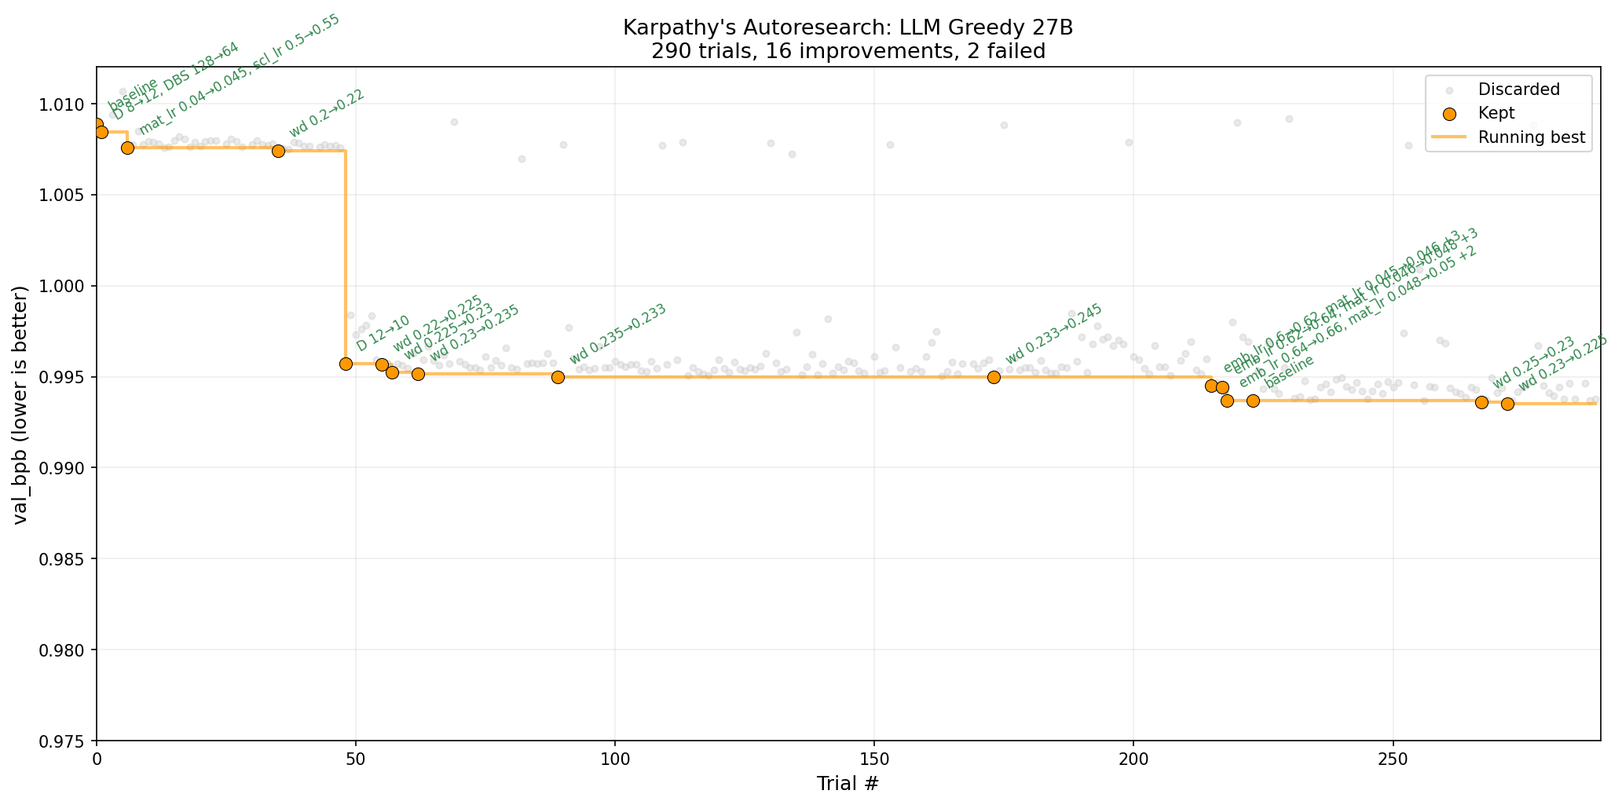
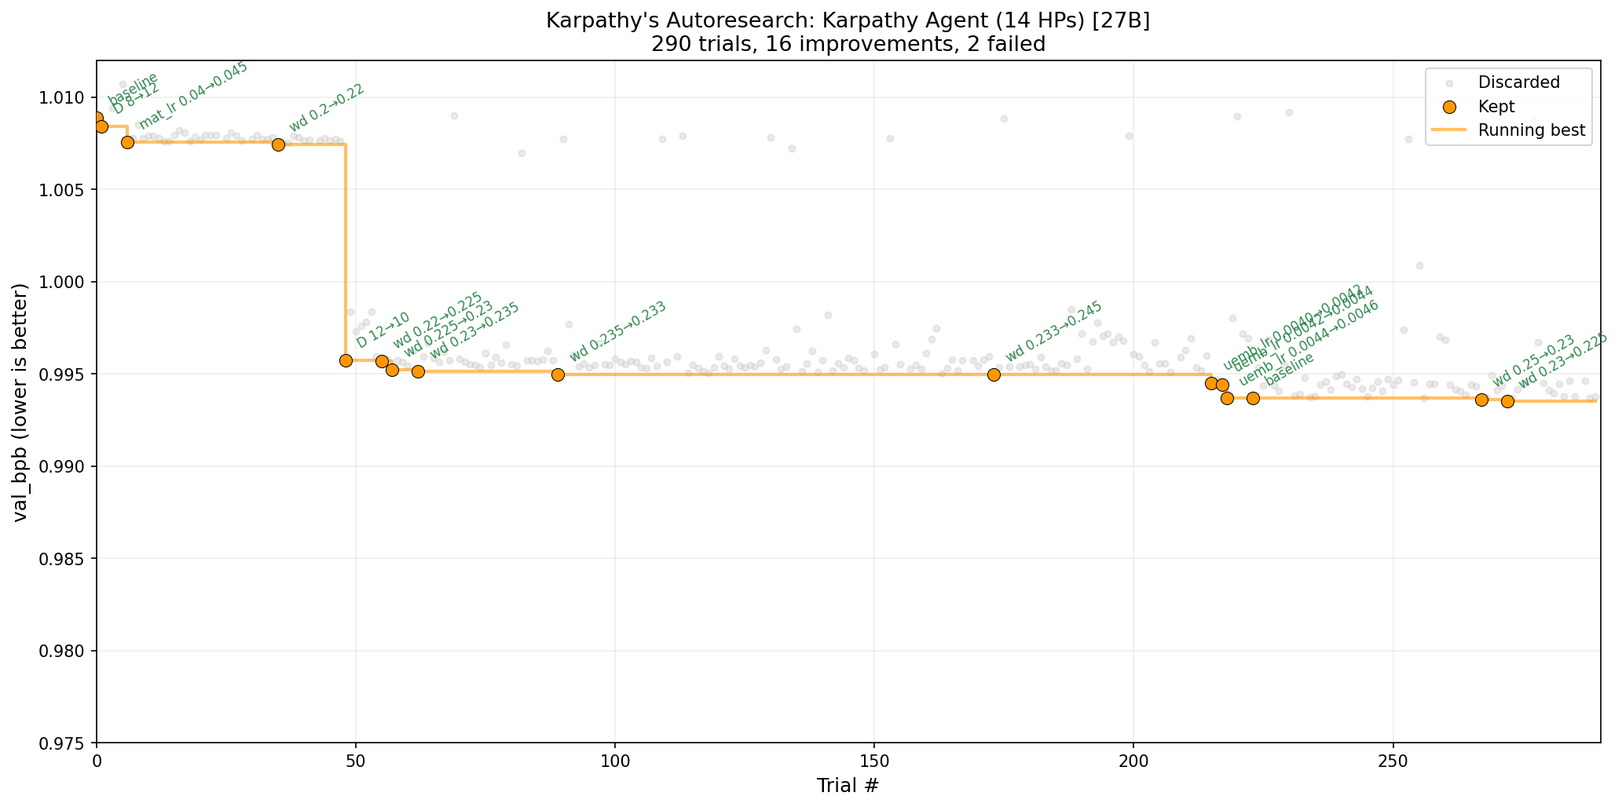
Benchmark cleanup: fix SMAC failure handling, rename methods, update README motivation
- SMAC: mark OOM trials as StatusType.MEMORYOUT (was SUCCESS), so GP
  surrogate can distinguish failures from real results
- Rename methods for clarity: Karpathy Agent (Code) vs (14 HPs),
  LLAMBO (Optuna) vs (Paper), Centaur [27B]
- README: reframe motivation as classical-vs-LLM comparison, add
  fairness summary, document SMAC bug
- Regenerate all convergence plots with new labels (SMAC excluded
  pending rerun with fix)
- _config_diff: show single most significant HP change instead of
  truncated list

diff --git a/scripts/plot_convergence.py b/scripts/plot_convergence.py
@@ -1,4 +1,4 @@
-"""Plot convergence curves for Exp2 benchmark: TPE vs LLAMBO vs LLM Greedy."""
+"""Plot convergence curves for Exp2 benchmark: classical vs LLM-based vs hybrid HPO."""
 
 import json
 from pathlib import Path
@@ -93,10 +93,10 @@ def plot_convergence_multi(
 def plot_exp2_0_8b(results_dir: Path, output_path: Path):
     """Exp2: 0.8B model — all backends."""
     backends = {
-        "optuna": {"label": "TPE (Optuna)", "color": "#2196F3"},
-        "llambo": {"label": "LLAMBO (Optuna) 0.8B", "color": "#9C27B0"},
-        "llambo_original": {"label": "LLAMBO (Original) 0.8B", "color": "#E91E63"},
-        "llm_greedy": {"label": "LLM Greedy 0.8B", "color": "#FF9800"},
+        "optuna": {"label": "TPE", "color": "#2196F3"},
+        "llambo": {"label": "LLAMBO (Optuna) [0.8B]", "color": "#9C27B0"},
+        "llambo_original": {"label": "LLAMBO (Paper) [0.8B]", "color": "#E91E63"},
+        "llm_greedy": {"label": "Karpathy Agent (14 HPs) [0.8B]", "color": "#FF9800"},
     }
     plot_convergence_multi(
         results_dir / "exp2_benchmark",
@@ -109,12 +109,12 @@ def plot_exp2_0_8b(results_dir: Path, output_path: Path):
 def plot_exp2_27b(results_dir: Path, output_path: Path):
     """Exp2: 27B — all backends."""
     backends = {
-        "optuna": {"label": "TPE (Optuna)", "color": "#2196F3"},
+        "optuna": {"label": "TPE", "color": "#2196F3"},
         "cma_es": {"label": "CMA-ES", "color": "#00796B"},
-        "centaur_Qwen3_5_27B": {"label": "Centaur 27B", "color": "#D32F2F"},
-        "llm_greedy_Qwen3_5_27B_nothink": {"label": "LLM Greedy 27B", "color": "#FF9800"},
-        "llambo_Qwen3_5_27B_nothink": {"label": "LLAMBO (Optuna) 27B", "color": "#9C27B0"},
-        "llambo_original_Qwen3_5_27B_nothink": {"label": "LLAMBO (Original) 27B", "color": "#E91E63"},
+        "centaur_Qwen3_5_27B": {"label": "Centaur [27B]", "color": "#D32F2F"},
+        "llm_greedy_Qwen3_5_27B_nothink": {"label": "Karpathy Agent (14 HPs) [27B]", "color": "#FF9800"},
+        "llambo_Qwen3_5_27B_nothink": {"label": "LLAMBO (Optuna) [27B]", "color": "#9C27B0"},
+        "llambo_original_Qwen3_5_27B_nothink": {"label": "LLAMBO (Paper) [27B]", "color": "#E91E63"},
         "random": {"label": "Random", "color": "#607D8B"},
     }
     plot_convergence_multi(
@@ -128,15 +128,15 @@ def plot_exp2_27b(results_dir: Path, output_path: Path):
 def plot_exp2_all(results_dir: Path, output_path: Path):
     """All backends on one plot."""
     backends = {
-        "optuna": {"label": "TPE (Optuna)", "color": "#2196F3", "linestyle": "-"},
+        "optuna": {"label": "TPE", "color": "#2196F3", "linestyle": "-"},
         "cma_es": {"label": "CMA-ES", "color": "#00796B", "linestyle": "-"},
-        "centaur_Qwen3_5_27B": {"label": "Centaur 27B", "color": "#D32F2F", "linestyle": "-"},
+        "centaur_Qwen3_5_27B": {"label": "Centaur [27B]", "color": "#D32F2F", "linestyle": "-"},
         "random": {"label": "Random", "color": "#607D8B", "linestyle": "-"},
         "smac": {"label": "SMAC", "color": "#795548", "linestyle": "-"},
-        "llm_greedy_Qwen3_5_27B_nothink": {"label": "LLM Greedy 27B", "color": "#FF9800", "linestyle": "-"},
-        "llambo_Qwen3_5_27B_nothink": {"label": "LLAMBO (Optuna) 27B", "color": "#9C27B0", "linestyle": "-"},
-        "llambo_original_Qwen3_5_27B_nothink": {"label": "LLAMBO (Orig) 27B", "color": "#E91E63", "linestyle": "-"},
-        "karpathy_agent_Qwen3_5_27B": {"label": "Karpathy Agent 27B", "color": "#4CAF50", "linestyle": "-"},
+        "llm_greedy_Qwen3_5_27B_nothink": {"label": "Karpathy Agent (14 HPs) [27B]", "color": "#FF9800", "linestyle": "-"},
+        "llambo_Qwen3_5_27B_nothink": {"label": "LLAMBO (Optuna) [27B]", "color": "#9C27B0", "linestyle": "-"},
+        "llambo_original_Qwen3_5_27B_nothink": {"label": "LLAMBO (Paper) [27B]", "color": "#E91E63", "linestyle": "-"},
+        "karpathy_agent_Qwen3_5_27B": {"label": "Karpathy Agent (Code) [27B]", "color": "#4CAF50", "linestyle": "-"},
     }
     plot_convergence_multi(
         results_dir / "exp2_benchmark",
@@ -149,11 +149,11 @@ def plot_exp2_all(results_dir: Path, output_path: Path):
 def plot_exp2_model_size(results_dir: Path, output_path: Path):
     """Compare 0.8B vs 27B for each LLM backend."""
     backends = {
-        "optuna": {"label": "TPE (Optuna)", "color": "#2196F3", "linestyle": "-"},
-        "llm_greedy_Qwen3_5_27B_nothink": {"label": "LLM Greedy 27B", "color": "#FF9800", "linestyle": "-"},
-        "llambo_original_Qwen3_5_27B_nothink": {"label": "LLAMBO (Orig) 27B", "color": "#E91E63", "linestyle": "-"},
-        "karpathy_agent_Qwen3_5_0_8B": {"label": "Karpathy Agent 0.8B", "color": "#4CAF50", "linestyle": "--"},
-        "karpathy_agent_Qwen3_5_27B": {"label": "Karpathy Agent 27B", "color": "#4CAF50", "linestyle": "-"},
+        "optuna": {"label": "TPE", "color": "#2196F3", "linestyle": "-"},
+        "llm_greedy_Qwen3_5_27B_nothink": {"label": "Karpathy Agent (14 HPs) [27B]", "color": "#FF9800", "linestyle": "-"},
+        "llambo_original_Qwen3_5_27B_nothink": {"label": "LLAMBO (Paper) [27B]", "color": "#E91E63", "linestyle": "-"},
+        "karpathy_agent_Qwen3_5_0_8B": {"label": "Karpathy Agent (Code) [0.8B]", "color": "#4CAF50", "linestyle": "--"},
+        "karpathy_agent_Qwen3_5_27B": {"label": "Karpathy Agent (Code) [27B]", "color": "#4CAF50", "linestyle": "-"},
     }
     plot_convergence_multi(
         results_dir / "exp2_benchmark",
@@ -194,21 +194,31 @@ def _format_val(v):
     return str(v)
 
 
-def _config_diff(prev: dict, curr: dict, max_diffs: int = 2) -> str:
-    """Karpathy-style HP change description: 'warmdown 0.5→0.7, TBS 524K→262K'."""
-    diffs = []
+def _config_diff(prev: dict, curr: dict) -> str:
+    """Show the single most significant HP change (largest relative delta)."""
+    best_diff = None
+    best_rel = -1.0
     for hp in curr:
         if hp not in prev or prev[hp] != curr[hp]:
             short = HP_SHORT.get(hp, hp)
             if hp in prev:
-                diffs.append(f"{short} {_format_val(prev[hp])}→{_format_val(curr[hp])}")
+                diff_str = f"{short} {_format_val(prev[hp])}→{_format_val(curr[hp])}"
+                # Compute relative change for ranking
+                try:
+                    old_v, new_v = float(prev[hp]), float(curr[hp])
+                    denom = max(abs(old_v), 1e-12)
+                    rel = abs(new_v - old_v) / denom
+                except (ValueError, TypeError):
+                    rel = float("inf")  # categorical changes rank highest
             else:
-                diffs.append(f"{short}={_format_val(curr[hp])}")
-    if not diffs:
+                diff_str = f"{short}={_format_val(curr[hp])}"
+                rel = float("inf")
+            if rel > best_rel:
+                best_rel = rel
+                best_diff = diff_str
+    if best_diff is None:
         return "baseline"
-    if len(diffs) > max_diffs:
-        return ", ".join(diffs[:max_diffs]) + f" +{len(diffs) - max_diffs}"
-    return ", ".join(diffs)
+    return best_diff
 
 
 def plot_progress_single(
@@ -305,13 +315,13 @@ def plot_progress(results_dir: Path, assets_dir: Path):
     bench_dir = results_dir / "exp2_benchmark"
 
     backends_to_plot = [
-        ("optuna", "TPE (Optuna)", "#2196F3"),
-        ("llm_greedy", "LLM Greedy 0.8B", "#FF9800"),
-        ("llm_greedy_Qwen3_5_27B_nothink", "LLM Greedy 27B", "#FF9800"),
-        ("llambo_original", "LLAMBO (Original) 0.8B", "#E91E63"),
-        ("llambo_original_Qwen3_5_27B_nothink", "LLAMBO (Original) 27B", "#E91E63"),
-        ("llambo", "LLAMBO (Optuna) 0.8B", "#9C27B0"),
-        ("llambo_Qwen3_5_27B_nothink", "LLAMBO (Optuna) 27B", "#9C27B0"),
+        ("optuna", "TPE", "#2196F3"),
+        ("llm_greedy", "Karpathy Agent (14 HPs) [0.8B]", "#FF9800"),
+        ("llm_greedy_Qwen3_5_27B_nothink", "Karpathy Agent (14 HPs) [27B]", "#FF9800"),
+        ("llambo_original", "LLAMBO (Paper) [0.8B]", "#E91E63"),
+        ("llambo_original_Qwen3_5_27B_nothink", "LLAMBO (Paper) [27B]", "#E91E63"),
+        ("llambo", "LLAMBO (Optuna) [0.8B]", "#9C27B0"),
+        ("llambo_Qwen3_5_27B_nothink", "LLAMBO (Optuna) [27B]", "#9C27B0"),
     ]
 
     for backend_name, display_name, color in backends_to_plot:
@@ -409,11 +419,11 @@ def plot_progress_combined(results_dir: Path, output_path: Path):
         all_descriptions = json.loads(desc_path.read_text())
 
     backends = [
-        ("optuna", "TPE (Optuna)", "#2196F3"),
+        ("optuna", "TPE", "#2196F3"),
         ("cma_es", "CMA-ES", "#00796B"),
-        ("centaur_Qwen3_5_27B", "Centaur 27B", "#D32F2F"),
-        ("llambo_original_Qwen3_5_27B_nothink", "LLAMBO (Original) 27B", "#E91E63"),
-        ("llm_greedy_Qwen3_5_27B_nothink", "LLM Greedy 27B", "#FF9800"),
+        ("centaur_Qwen3_5_27B", "Centaur [27B]", "#D32F2F"),
+        ("llambo_original_Qwen3_5_27B_nothink", "LLAMBO (Paper) [27B]", "#E91E63"),
+        ("llm_greedy_Qwen3_5_27B_nothink", "Karpathy Agent (14 HPs) [27B]", "#FF9800"),
         ("random", "Random", "#607D8B"),
     ]
 

diff --git a/autoresearch_automl/backends/smac_backend.py b/autoresearch_automl/backends/smac_backend.py
@@ -98,23 +98,30 @@ class SMACBackend(HPOBackend):
 
     def tell(self, config: dict[str, Any], budget: float, results: dict[str, float]) -> None:
         from smac.runhistory import TrialValue
-        # Use inf for None/missing objectives (failed trials return val_bpb=None)
+        from smac.runhistory.enumerations import StatusType
+
         cost = [results.get(o) if results.get(o) is not None else self.FAILURE_COST for o in self._objectives]
-        value = TrialValue(cost=cost)
+        is_failure = any(results.get(o) is None for o in self._objectives)
+        status = StatusType.MEMORYOUT if is_failure else StatusType.SUCCESS
+        value = TrialValue(cost=cost, status=status)
         self._facade.tell(self._pending_info, value)
         self._results.append((config, budget, results))
 
     def seed_trial(self, config: dict[str, Any], budget: float, results: dict[str, float]) -> None:
         """Inject baseline trial directly into SMAC's runhistory (no suggest needed)."""
         from ConfigSpace import Configuration
+        from smac.runhistory.enumerations import StatusType
 
         cfg = Configuration(self._space, values=config)
         cost = [results.get(o) if results.get(o) is not None else self.FAILURE_COST for o in self._objectives]
+        is_failure = any(results.get(o) is None for o in self._objectives)
+        status = StatusType.MEMORYOUT if is_failure else StatusType.SUCCESS
         self._facade.runhistory.add(
             config=cfg,
             cost=cost,
             seed=0,
             budget=budget if self._multi_fidelity else None,
+            status=status,
         )
         self._results.append((config, budget, results))
         logger.info("Seeded baseline trial into SMAC runhistory")
@@ -122,16 +129,20 @@ class SMACBackend(HPOBackend):
     def replay(self, history: list[tuple[dict, float, dict]]) -> None:
         """Replay trials into SMAC's runhistory."""
         from ConfigSpace import Configuration
+        from smac.runhistory.enumerations import StatusType
 
         for config_dict, budget, results in history:
             try:
                 config = Configuration(self._space, values=config_dict)
                 cost = [results.get(o) if results.get(o) is not None else self.FAILURE_COST for o in self._objectives]
+                is_failure = any(results.get(o) is None for o in self._objectives)
+                status = StatusType.MEMORYOUT if is_failure else StatusType.SUCCESS
                 self._facade.runhistory.add(
                     config=config,
                     cost=cost,
                     seed=0,
                     budget=budget if self._multi_fidelity else None,
+                    status=status,
                 )
             except Exception as e:
                 logger.warning("Failed to replay trial into SMAC: %s", e)

diff --git a/README.md b/README.md
@@ -1,21 +1,18 @@
 # autoresearch-automl
 
-Karpathy's [autoresearch](https://github.com/karpathy/autoresearch) lets an LLM agent tweak training code through trial and error. Ravid Shwartz-Ziv [showed](https://www.linkedin.com/posts/ravid-shwartz-ziv-8bb18761_do-llm-coding-agents-fool-us-karpathys-activity-7437556522240536576-ygrQ) that model-based optimization (Optuna TPE + expert-picked hyperparameter search space) already beats it. We fill the gap by integrating [LLAMBO (Ye et al., 2024)](https://arxiv.org/abs/2402.03921) into autoresearch, an approach that puts the LLM inside model-based optimization, using it as both surrogate model and candidate generator.
+**Can LLM-based HPO match classical AutoML methods on a real GPU training task — and can hybrid approaches combining both do even better?**
 
-As an AutoML enthusiast, it felt natural to fill this void — this repo applies LLAMBO to Karpathy's autoresearch problem and benchmarks it against TPE.
-
-![LLAMBO candidate sampling quality](assets/llambo_fig6.png)
-*Figure 6 from [Ye et al. (2024)](https://arxiv.org/abs/2402.03921): LLAMBO outperforms TPE in candidate sampling quality, especially with few observed points.*
+Karpathy's [autoresearch](https://github.com/karpathy/autoresearch) showed that LLMs can optimize training code through trial and error. Shwartz-Ziv [showed](https://www.linkedin.com/posts/ravid-shwartz-ziv-8bb18761_do-llm-coding-agents-fool-us-karpathys-activity-7437556522240536576-ygrQ) that classical HPO (TPE + expert search space) already beats it. We systematically benchmark classical, LLM-based, and hybrid HPO approaches — all on the same task, same GPU memory cap, same training-time budget, same baseline config — to find out which strategy actually wins.
 
 ## Setup
 
-We benchmark 7 HPO backends on Karpathy's autoresearch training task: single H200 GPU, 5-minute budget per trial, 24-hour training-time budget, minimize val_bpb.
+We benchmark 10 HPO backends on Karpathy's autoresearch training task: single H200 GPU, 5-minute budget per trial, 24-hour training-time budget, minimize val_bpb.
 
-**Zero-curation search space:** The search space (14 hyperparameters) is extracted fully automatically from `train.py` by parsing the AST — no manual HP selection or range tuning. The extractor finds all module-level uppercase constants with numeric or string values and infers types and ranges. This means any change to `train.py` (adding a new HP, renaming one) is picked up automatically. The search space is a property of the code, not an expert decision. Karpathy's `train.py` contains ~15 additional tunable values hardcoded inside functions (e.g., softcap, rotary embedding base, Muon momentum schedule) that our extractor intentionally does not expose — the unconstrained Karpathy agent baseline covers those.
+**Zero-curation search space:** The search space (14 hyperparameters) is extracted fully automatically from `train.py` by parsing the AST — no manual HP selection or range tuning. The extractor finds all module-level uppercase constants with numeric or string values and infers types and ranges. This means any change to `train.py` (adding a new HP, renaming one) is picked up automatically. The search space is a property of the code, not an expert decision. Karpathy's `train.py` contains ~15 additional tunable values hardcoded inside functions (e.g., softcap, rotary embedding base, Muon momentum schedule) that our extractor intentionally does not expose — the LLM Code Editor baseline covers those.
 
 **Backends:**
-- **Classical:** Optuna TPE, Random Search, SMAC3, CMA-ES
-- **LLM-based:** LLAMBO (OptunaHub), LLAMBO Original (paper-faithful), LLM Greedy
+- **Classical:** TPE (Optuna), Random Search, SMAC, CMA-ES
+- **LLM-based:** LLAMBO (Optuna) (OptunaHub port), LLAMBO (Paper) (paper-faithful), Karpathy Agent (14 HPs) (LLM suggests from history within fixed HP space), Karpathy Agent (Code) (no fixed search space, edits code directly)
 - **Hybrid:** Centaur (CMA-ES guided LLM optimization)
 
 LLM-based backends use self-hosted Qwen3.5 (0.8B and 27B) via vLLM, running on the same GPU as training. No API keys, no proprietary models, fully reproducible. Each condition runs 3 seeds.
@@ -24,13 +21,19 @@ LLM-based backends use self-hosted Qwen3.5 (0.8B and 27B) via vLLM, running on t
 
 **Training-time budget:** We track cumulative *training time* (sum of `wall_time_seconds` across trials) rather than wall-clock time. LLM backends spend significant overhead on inference (e.g., LLAMBO ~50%), so a 24h wall-clock limit would give them far less actual training time. Every backend gets exactly 24 hours of GPU training, regardless of sampling overhead.
 
-**Note on failure handling:** Infeasible configs (OOM, batch size assertion errors) are reported to the sampler as `val_bpb=100.0` instead of being silently dropped. Both TPE and LLAMBO otherwise ignore failed trials (`TrialState.FAIL`), which means they never learn to avoid bad regions. The penalty value is hardcoded for this task (real val_bpb ranges 0.99–2.4) — for other tasks, this would need adjustment.
+**Note on failure handling:** Infeasible configs (OOM, batch size assertion errors) are reported to the sampler as `val_bpb=100.0` instead of being silently dropped. Both TPE and LLAMBO otherwise ignore failed trials (`TrialState.FAIL`), which means they never learn to avoid bad regions. SMAC additionally marks failed trials with `StatusType.MEMORYOUT` so its GP surrogate can distinguish failures from real results. The penalty value is hardcoded for this task (real val_bpb ranges 0.99–2.4) — for other tasks, this would need adjustment.
+
+**Fairness summary:**
+- All methods use identical `CUDA_MEM_FRACTION=0.543` (~76 GB usable)
+- All methods seeded with the same baseline config (Karpathy defaults)
+- Same 14-HP search space extracted from the same `train.py` (except Karpathy Agent (Code), which has no fixed search space)
+- Training-time budget (86400s) counts only GPU training time, not LLM inference overhead — this is intentional so LLM methods get equal training compute despite sampling overhead
 
 ## Results
 
 ### All Methods
 
-Convergence curves (mean ± std across available seeds). Includes classical methods (TPE, CMA-ES, Random, SMAC), LLM-based (LLAMBO, LLM Greedy, Karpathy Agent), and hybrid (Centaur).
+Convergence curves (mean ± std across available seeds). Includes classical methods (TPE, CMA-ES, Random, SMAC), LLM-based (LLAMBO, Karpathy Agent (14 HPs), Karpathy Agent (Code)), and hybrid (Centaur).
 
 ![All methods convergence](assets/exp2_all_convergence.png)
 
@@ -63,22 +66,22 @@ To understand *why* some methods outperform others, we measure how each backend 
 
 | Method | Seeds | Avg Best | OOM% | Spread | Pairwise | Dist→Default | Step | Cells |
 |--------|-------|----------|------|--------|----------|-------------|------|-------|
-| cma_es | 2 | **0.9795** | 0% | 0.138 | 0.697 | 0.889 | 0.561 | 220 |
-| optuna (TPE) | 2 | **0.9821** | 0% | 0.196 | 0.963 | 1.288 | 0.569 | 169 |
-| centaur (27B) | 1 | **0.9848** | 0% | 0.126 | 0.611 | 1.064 | 0.541 | 88 |
-| llambo_original (27B) | 3 | 0.9880 | 0% | 0.255 | 1.272 | 1.127 | 1.210 | 357 |
-| random | 2 | 0.9893 | 56% | 0.274 | 1.388 | 1.243 | 1.391 | 169 |
-| llambo (27B) | 3 | 0.9905 | 84% | 0.164 | 0.843 | 0.968 | 0.696 | 78 |
-| llm_greedy (27B) | 3 | 0.9930 | 1% | 0.020 | 0.101 | 0.249 | 0.059 | 14 |
-| smac | 2 | 1.0045 | 44% | 0.241 | 1.199 | 1.115 | 0.450 | 36 |
+| CMA-ES | 2 | **0.9795** | 0% | 0.138 | 0.697 | 0.889 | 0.561 | 220 |
+| TPE | 2 | **0.9821** | 0% | 0.196 | 0.963 | 1.288 | 0.569 | 169 |
+| Centaur [27B] | 1 | **0.9848** | 0% | 0.126 | 0.611 | 1.064 | 0.541 | 88 |
+| LLAMBO (Paper) [27B] | 3 | 0.9880 | 0% | 0.255 | 1.272 | 1.127 | 1.210 | 357 |
+| Random | 2 | 0.9893 | 56% | 0.274 | 1.388 | 1.243 | 1.391 | 169 |
+| LLAMBO (Optuna) [27B] | 3 | 0.9905 | 84% | 0.164 | 0.843 | 0.968 | 0.696 | 78 |
+| Karpathy Agent (14 HPs) [27B] | 3 | 0.9930 | 1% | 0.020 | 0.101 | 0.249 | 0.059 | 14 |
+| SMAC | 2 | 1.0045 | 44% | 0.241 | 1.199 | 1.115 | 0.450 | 36 |
 
 **Observations:**
 
-- **LLM greedy has the lowest diversity by all metrics.** Spread 0.020 (14x less than random), only 14 unique grid cells, dist→default 0.249. It makes minimal changes between trials (step 0.059).
-- **LLAMBO (OptunaHub) has 84% OOM rate** (up to 93% for seed 2), due to random categorical sampling of DEPTH.
-- **llambo_original is the most diverse method with 0% OOM** — spread 0.255, 357 unique cells — yet still underperforms CMA-ES and TPE.
+- **Karpathy Agent (14 HPs) has the lowest diversity by all metrics.** Spread 0.020 (14x less than random), only 14 unique grid cells, dist→default 0.249. It makes minimal changes between trials (step 0.059).
+- **LLAMBO (Optuna) has 84% OOM rate** (up to 93% for seed 2), due to random categorical sampling of DEPTH.
+- **LLAMBO (Paper) is the most diverse method with 0% OOM** — spread 0.255, 357 unique cells — yet still underperforms CMA-ES and TPE.
 - **The top 3 methods (CMA-ES, TPE, Centaur) all have 0% OOM and moderate diversity** (spread 0.12–0.20).
-- **SMAC has high spread (0.241) but only 36 unique cells** — it revisits similar configs while also producing 44% OOM.
+- **SMAC has high spread (0.241) but only 36 unique cells** — it revisits similar configs while also producing 44% OOM. This is partly due to a bug where OOM trials were marked as `SUCCESS` instead of `MEMORYOUT`, preventing the GP surrogate from learning to avoid infeasible regions (fix included in this repo, rerun pending).
 - **Performance correlates more with OOM rate than with diversity.** All 0%-OOM methods outperform all high-OOM methods, suggesting that on this task, learning to avoid infeasible regions may matter more than LLM domain knowledge or search diversity.
 
 ## Usage
@@ -100,15 +103,15 @@ python -m autoresearch_automl.cli run --backend smac --trials 100 --seed 0
 # CMA-ES
 python -m autoresearch_automl.cli run --backend cma_es --trials 100 --seed 0
 
-# LLAMBO (requires vLLM running)
+# LLAMBO (Optuna) (requires vLLM running)
 export OPENAI_BASE_URL=http://127.0.0.1:8000/v1
 export OPENAI_API_KEY=dummy
 python -m autoresearch_automl.cli run --backend llambo --trials 100 --llm-model Qwen3.5-0.8B
 
-# LLAMBO Original (paper-faithful)
+# LLAMBO (Paper)
 python -m autoresearch_automl.cli run --backend llambo_original --trials 100 --llm-model Qwen3.5-0.8B
 
-# LLM Greedy
+# Karpathy Agent (14 HPs)
 python -m autoresearch_automl.cli run --backend llm_greedy --trials 100 --llm-model Qwen3.5-0.8B
 ```
 
@@ -118,9 +121,9 @@ python -m autoresearch_automl.cli run --backend llm_greedy --trials 100 --llm-mo
 
 Our baseline (Karpathy's default config) achieves val_bpb=1.008 on H200, while Karpathy reports ~0.998 on H100. Same code, same config, same `torch.compile` + FA3. The gap is entirely due to **GPU power throttling**: H200's HBM3e memory (4.8 TB/s) draws more power than H100's HBM3 (3.35 TB/s), leaving less of the shared 700W TDP for the SMs. Under sustained load, our H200 clocks down to ~1600 MHz (81% of max 1980 MHz), yielding 18% fewer training steps per 5-minute trial. Adjusting for actual clock speed, compute efficiency is identical (40.3% vs 39.8% MFU). This baseline offset does not affect HPO convergence.
 
-### OptunaHub LLAMBO vs Original Paper
+### LLAMBO (Optuna) vs LLAMBO (Paper)
 
-While integrating LLAMBO, we discovered that the [OptunaHub LLAMBO sampler](https://hub.optuna.org/samplers/llambo/) differs from the [original paper code](https://github.com/tennisonliu/LLAMBO) in several ways that materially affect optimization quality. OptunaHub does great work making research accessible — these notes are meant to help users who need paper-faithful behavior.
+While integrating LLAMBO, we discovered that the [OptunaHub LLAMBO sampler](https://hub.optuna.org/samplers/llambo/) (LLAMBO (Optuna)) differs from the [original paper code](https://github.com/tennisonliu/LLAMBO) (LLAMBO (Paper)) in several ways that materially affect optimization quality. OptunaHub does great work making research accessible — these notes are meant to help users who need paper-faithful behavior.
 
 **Key differences:**
 
@@ -132,7 +135,7 @@ While integrating LLAMBO, we discovered that the [OptunaHub LLAMBO sampler](http
 
 **Impact on our experiments:** The categorical delegation was the most painful. Our `WINDOW_PATTERN` hyperparameter (attention pattern per layer) strongly affects VRAM usage and model quality, but the OptunaHub port samples it randomly — the LLM never sees or reasons about it. The binary labeling also loses information: the LLM can't distinguish a config scoring 0.99 from one scoring 1.50, they're both "good" or both "bad" depending on the threshold.
 
-We implemented a [faithful adaptation](autoresearch_automl/backends/llambo_original/) of the paper's code (`--backend llambo_original`) alongside the OptunaHub version (`--backend llambo`) to quantify these differences. Both are included in our benchmark.
+We implemented a [faithful adaptation](autoresearch_automl/backends/llambo_original/) of the paper's code (LLAMBO (Paper), `--backend llambo_original`) alongside the OptunaHub version (LLAMBO (Optuna), `--backend llambo`) to quantify these differences. Both are included in our benchmark.
 
 ## Related work
 
